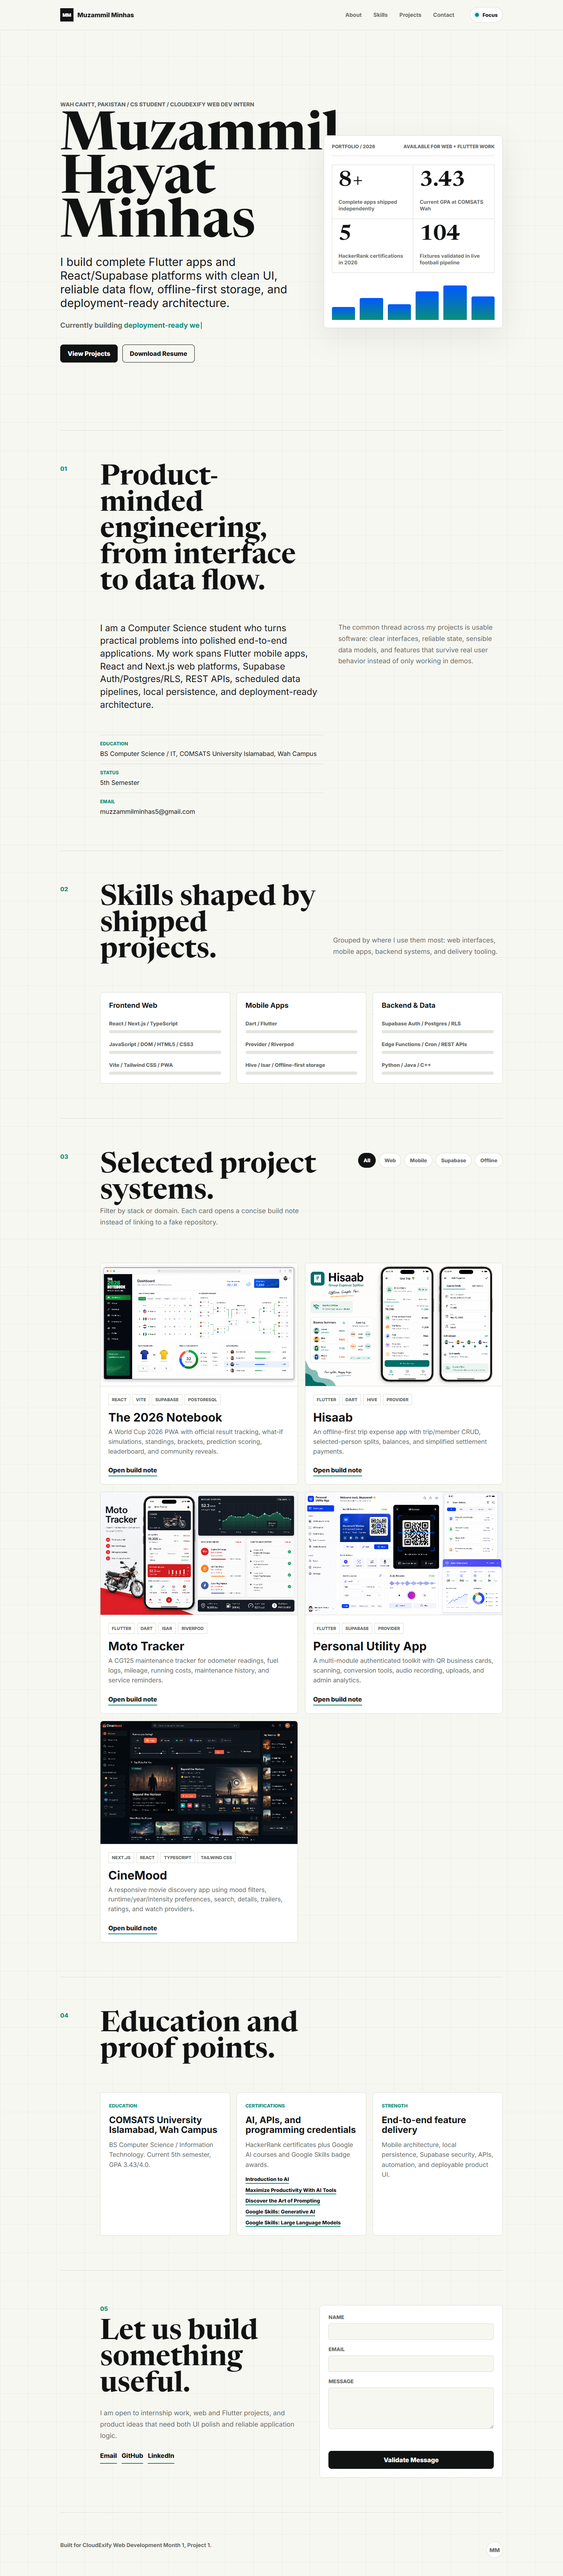
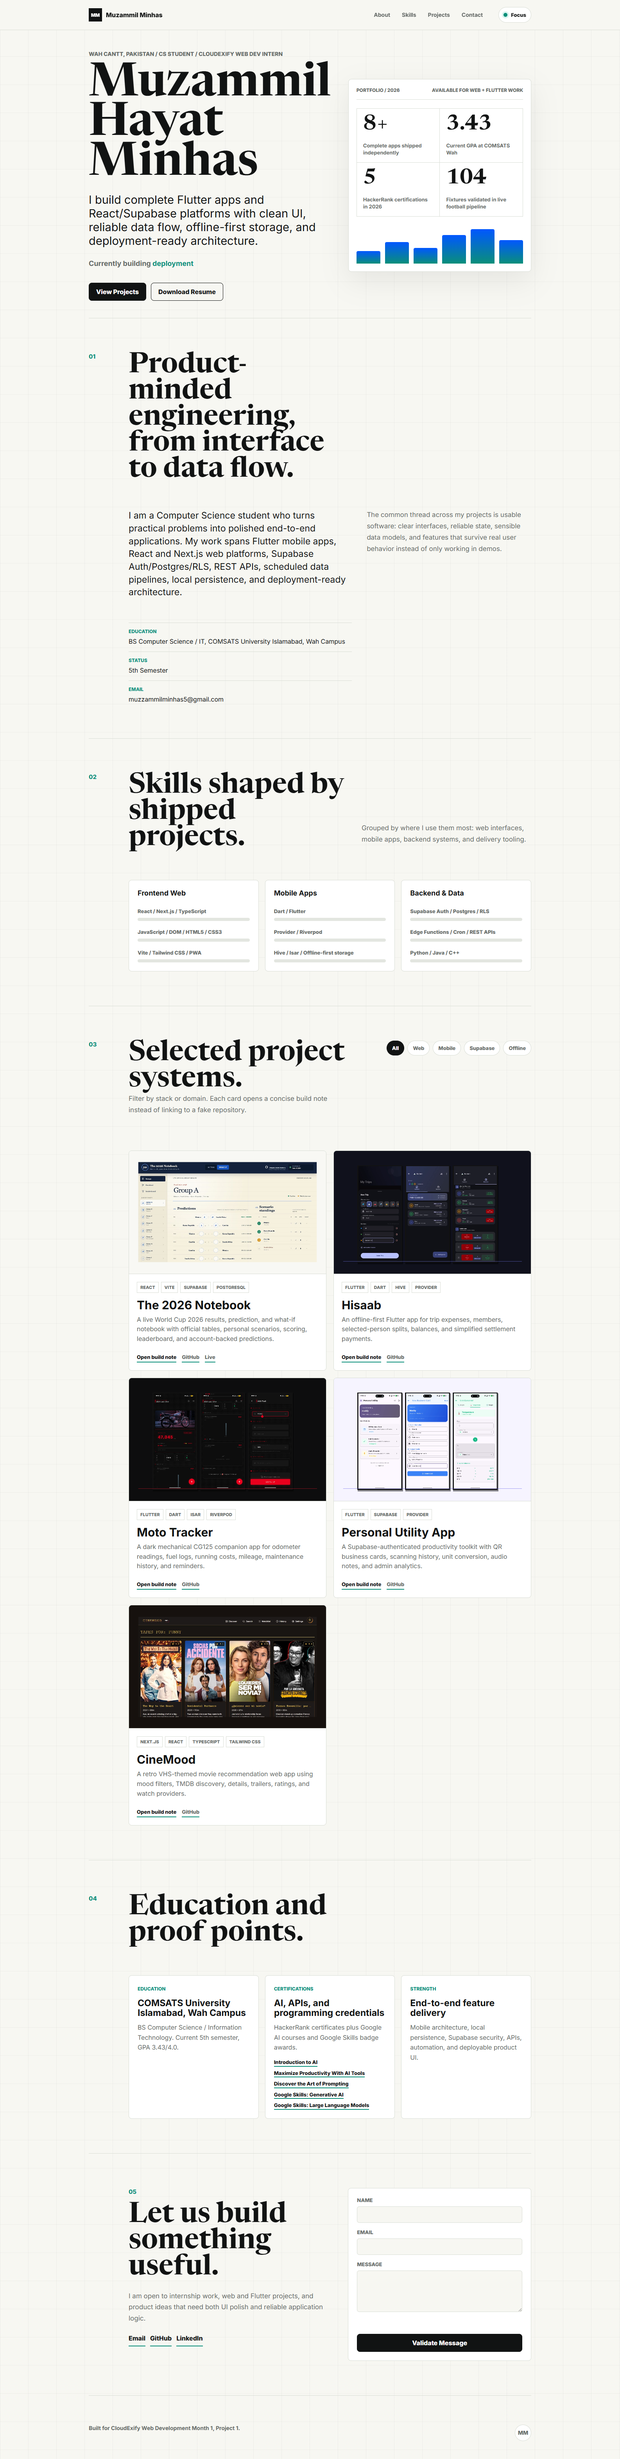
Use real project screenshots and fix hero layout

diff --git a/js/script.js b/js/script.js
@@ -5,11 +5,13 @@ const projects = [
     tags: ["web", "supabase"],
     stack: ["React", "Vite", "Supabase", "PostgreSQL"],
     image: "assets/images/project-2026-notebook.png",
-    summary: "A World Cup 2026 PWA with official result tracking, what-if simulations, standings, brackets, prediction scoring, leaderboard, and community reveals.",
+    repoUrl: "https://github.com/muzzammilminhas/the-2026-notebook",
+    liveUrl: "https://muzzammilminhas.github.io/the-2026-notebook/",
+    summary: "A live World Cup 2026 results, prediction, and what-if notebook with official tables, personal scenarios, scoring, leaderboard, and account-backed predictions.",
     highlights: [
-      "Built a Supabase Cron and Edge Function pipeline that polls official data every minute.",
-      "Validated all 104 fixtures, cached official results, and audited result corrections.",
-      "Protected prediction access and scoring flows with Postgres RLS and server-side logic."
+      "README-backed feature set includes Actual, What If, Standings, Knockout, Leaderboard, Match Centre, Community Picks, Accounts, and Admin status.",
+      "Built a Supabase Cron and Edge Function sync pipeline for official result updates.",
+      "Protected prediction deadlines and scoring flows through server-side Supabase/Postgres logic."
     ]
   },
   {
@@ -18,11 +20,12 @@ const projects = [
     tags: ["mobile", "offline"],
     stack: ["Flutter", "Dart", "Hive", "Provider"],
     image: "assets/images/project-hisaab.png",
-    summary: "An offline-first trip expense app with trip/member CRUD, selected-person splits, balances, and simplified settlement payments.",
+    repoUrl: "https://github.com/muzzammilminhas/hisaab",
+    summary: "An offline-first Flutter app for trip expenses, members, selected-person splits, balances, and simplified settlement payments.",
     highlights: [
+      "README-backed features include trip/member CRUD, expense CRUD, per-person shares, member summaries, and simplified settlements.",
       "Implemented local Hive persistence with generated model adapters.",
-      "Designed Material 3 theming, dark mode, and practical mobile CRUD flows.",
-      "Added swipe-based edit/delete interactions and settlement simplification."
+      "Designed Material 3 light/dark UI with swipe actions for editing and deletion."
     ]
   },
   {
@@ -31,11 +34,12 @@ const projects = [
     tags: ["mobile", "offline"],
     stack: ["Flutter", "Dart", "Isar", "Riverpod"],
     image: "assets/images/project-moto-tracker.png",
-    summary: "A CG125 maintenance tracker for odometer readings, fuel logs, mileage, running costs, maintenance history, and service reminders.",
+    repoUrl: "https://github.com/muzzammilminhas/moto-tracker",
+    summary: "A dark mechanical CG125 companion app for odometer readings, fuel logs, running costs, mileage, maintenance history, and reminders.",
     highlights: [
-      "Used Isar for local database persistence and Riverpod for dashboard updates.",
-      "Built fuel, mileage, and cost calculations with chart-ready summaries.",
-      "Added maintenance history, image attachment support, and notification foundations."
+      "README-backed features include dashboard stats, fuel logging, maintenance logging, next-service tracking, and alert foundations.",
+      "Used Isar for local database persistence and Riverpod for reactive dashboard updates.",
+      "Built mileage, cost, range, monthly expense, and service interval calculations."
     ]
   },
   {
@@ -44,11 +48,12 @@ const projects = [
     tags: ["mobile", "supabase"],
     stack: ["Flutter", "Supabase", "Provider"],
     image: "assets/images/project-utility-app.png",
-    summary: "A multi-module authenticated toolkit with QR business cards, scanning, conversion tools, audio recording, uploads, and admin analytics.",
+    repoUrl: "https://github.com/muzzammilminhas/personal_utility_app",
+    summary: "A Supabase-authenticated productivity toolkit with QR business cards, scanning history, unit conversion, audio notes, and admin analytics.",
     highlights: [
-      "Built Supabase authentication, password-reset deep links, and user/admin routing.",
-      "Implemented QR business card CRUD, QR generation/scanning, and scan history.",
-      "Added audio recording upload/playback and role-aware admin analytics."
+      "README-backed features include Supabase Auth, user/admin routing, admin table access, and password reset deep links.",
+      "Implemented QR card CRUD, QR generation/scanning, scan history, and unit conversion.",
+      "Added private Supabase Storage audio upload/playback and admin activity dashboards."
     ]
   },
   {
@@ -57,11 +62,12 @@ const projects = [
     tags: ["web"],
     stack: ["Next.js", "React", "TypeScript", "Tailwind CSS", "TMDB API"],
     image: "assets/images/project-cinemood.png",
-    summary: "A responsive movie discovery app using mood filters, runtime/year/intensity preferences, search, details, trailers, ratings, and watch providers.",
+    repoUrl: "https://github.com/muzzammilminhas/cinemood",
+    summary: "A retro VHS-themed movie recommendation web app using mood filters, TMDB discovery, details, trailers, ratings, and watch providers.",
     highlights: [
-      "Added local watchlist, disliked/watched states, history, settings, and region preferences.",
-      "Created shareable recommendation flows and theme switching.",
-      "Connected search and detail views to API-driven movie data."
+      "README-backed features include mood-based recommendations, search, movie details, posters, trailers, and regional watch providers.",
+      "Added local watchlist, disliked/watched states, watched history, and persisted preferences.",
+      "Built responsive navigation, theme settings, sharing, and local data clearing flows."
     ]
   }
 ];
@@ -100,7 +106,11 @@ function renderProjects(filter = "all") {
         </div>
         <h3>${project.title}</h3>
         <p>${project.summary}</p>
-        <button type="button" data-project="${project.title}">Open build note</button>
+        <div class="project-actions">
+          <button type="button" data-project="${project.title}">Open build note</button>
+          <a href="${project.repoUrl}" target="_blank" rel="noreferrer">GitHub</a>
+          ${project.liveUrl ? `<a href="${project.liveUrl}" target="_blank" rel="noreferrer">Live</a>` : ""}
+        </div>
       </div>
     </article>
   `).join("");
@@ -117,7 +127,7 @@ function openProject(title) {
   document.getElementById("dialogDescription").textContent = project.summary;
   document.getElementById("dialogHighlights").innerHTML = project.highlights
     .map((item) => `<li>${item}</li>`)
-    .join("");
+    .join("") + `<li><a href="${project.repoUrl}" target="_blank" rel="noreferrer">Read the source README on GitHub</a></li>`;
 
   if (typeof projectDialog.showModal === "function") {
     projectDialog.showModal();

diff --git a/css/style.css b/css/style.css
@@ -198,11 +198,15 @@ main {
 .hero {
   min-height: calc(100vh - var(--header-height));
   display: grid;
-  grid-template-columns: minmax(0, 1.15fr) minmax(320px, 0.85fr);
+  grid-template-columns: minmax(0, 0.95fr) minmax(360px, 0.72fr);
   align-items: center;
-  gap: 54px;
+  gap: 46px;
   padding: 52px 0 44px;
   border-bottom: 1px solid var(--line);
+}
+
+.hero-copy {
+  min-width: 0;
 }
 
 .hero-meta {
@@ -223,10 +227,10 @@ p {
 
 h1 {
   margin-bottom: 24px;
-  max-width: 860px;
+  max-width: 760px;
   font-family: Newsreader, Georgia, serif;
-  font-size: clamp(64px, 10vw, 136px);
-  line-height: 0.82;
+  font-size: clamp(58px, 8.8vw, 118px);
+  line-height: 0.86;
   font-weight: 650;
 }
 
@@ -599,9 +603,17 @@ section:not(.hero) {
   line-height: 1.55;
 }
 
-.project-card button {
-  align-self: flex-start;
+.project-actions {
+  display: flex;
+  flex-wrap: wrap;
+  align-items: center;
+  gap: 14px;
   margin-top: auto;
+}
+
+.project-actions button,
+.project-actions a {
+  align-self: flex-start;
   border: 0;
   border-bottom: 2px solid var(--accent);
   background: transparent;
@@ -609,6 +621,15 @@ section:not(.hero) {
   padding: 10px 0 4px;
   cursor: pointer;
   font-weight: 900;
+  font-size: 13px;
+}
+
+.project-actions a {
+  color: var(--muted);
+}
+
+.project-actions a:hover {
+  color: var(--accent);
 }
 
 .credential-grid {
@@ -822,6 +843,12 @@ section:not(.hero) {
   line-height: 1.65;
 }
 
+.dialog-body a {
+  border-bottom: 2px solid var(--accent);
+  color: var(--ink);
+  font-weight: 900;
+}
+
 .badge-toast {
   position: fixed;
   left: 50%;
@@ -952,7 +979,7 @@ section:not(.hero) {
   }
 
   h1 {
-    font-size: clamp(56px, 18vw, 86px);
+    font-size: clamp(52px, 16vw, 82px);
   }
 
   .hero-lede {

diff --git a/README.md b/README.md
@@ -17,6 +17,7 @@ Personal portfolio website for CloudExify Full Stack Web Development Internship 
 - Scroll-triggered animated skill bars
 - Live project filter
 - Project detail dialog using JavaScript-rendered data
+- Real project screenshots and GitHub repository links
 - Contact form validation
 - Smooth scroll and active navigation highlight
 - Hidden easter egg badge
